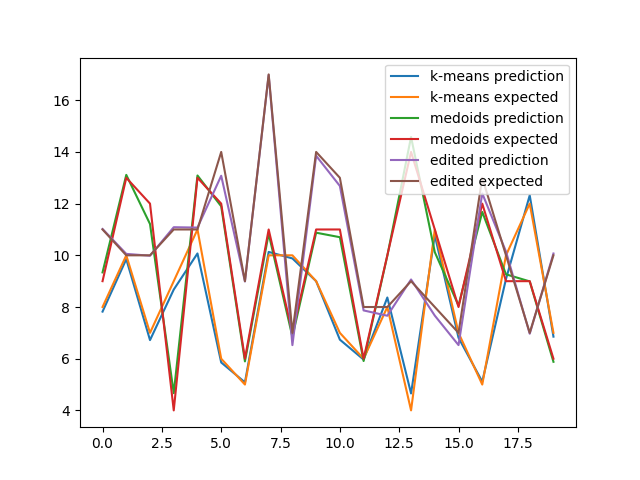
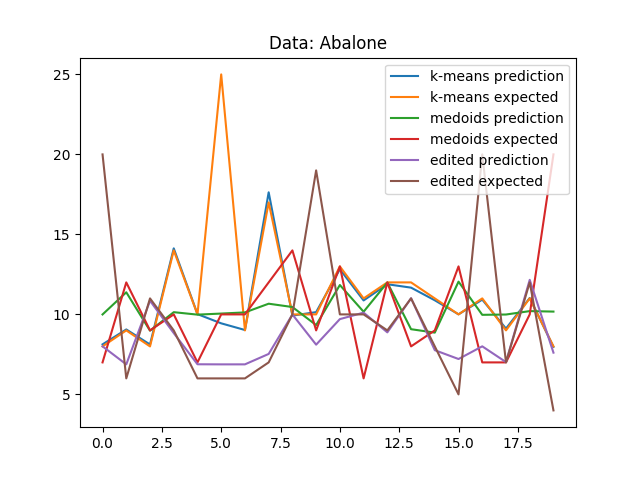
fixed data error

diff --git a/Main.py b/Main.py
@@ -14,7 +14,7 @@ def load_data():
     """
     data_list = [Data('abalone', pd.read_csv(r'data/abalone.data', header=None), 8),
                  Data('car', pd.read_csv(r'data/car.data', header=None), 5),
-                 Data('segmentation', pd.read_csv(r'data/segmentation.data', header=None), 0),
+                 Data('segmentation', pd.read_csv(r'data/segmentation.data', header=None, skiprows=4), 0),
                  Data('machine', pd.read_csv(r'data/machine.data', header=None), 0),
                  Data('forest_fires', pd.read_csv(r'data/forestfires.data', header=None), 12),
                  Data('wine', pd.read_csv(r'data/wine.data', header=None), 0),
@@ -24,9 +24,10 @@ def load_data():
 
 
 # run RBF regression on 4 experiments (diff clusters)
-def RBFREG_exp(data_config):
+def RBFREG_exp(data_config, data):
     # setup data var
-    data = Data('abalone', pd.read_csv(r'data/abalone.data', header=None), 8)  # load data
+    # data = Data('segmentation', pd.read_csv(r'data/segmentation.data', header=None), 0)
+    # load data
     df = data.df  # get the dataframe from df
 
     print("Checking DF set")
@@ -98,7 +99,7 @@ def RBFREG_exp(data_config):
     print("expected")
     print(expc_list)
     plt.plot(predicts, label='RBF2' + data_config + ' prediction')
-    plt.plot(expc_list, label='RBF2' +data_config + ' expected')
+    plt.plot(expc_list, label='RBF2' + data_config + ' expected')
     # print("MSE RBF 2")
     # mse2 = rbf2.mean_squared_error(predicts2, expc_list)
     # print(mse2)
@@ -113,7 +114,7 @@ def RBFREG_exp(data_config):
     print("expected")
     print(expc_list)
     plt.plot(predicts, label='RBF3' + data_config + ' prediction')
-    plt.plot(expc_list, label='RBF3' +data_config + ' expected')
+    plt.plot(expc_list, label='RBF3' + data_config + ' expected')
     # print("MSE RBF 3")
     # mse3 = rbf.mean_squared_error(predicts3, expc_list)
     # print(mse3)
@@ -128,7 +129,7 @@ def RBFREG_exp(data_config):
     print("expected")
     print(expc_list)
     plt.plot(predicts, label='RBF4' + data_config + ' prediction')
-    plt.plot(expc_list, label='RBF4' +data_config + ' expected')
+    plt.plot(expc_list, label='RBF4' + data_config + ' expected')
     # print("MSE RBF 4")
     # mse4 = rbf.mean_squared_error(predicts4, expc_list)
     # print(mse4)
@@ -137,8 +138,9 @@ def RBFREG_exp(data_config):
 
 
 # run RBF regression on small dataset for video
-def RBFREG_vid(data_config):
-    data = Data('abalone', pd.read_csv(r'data/abalone.data', header=None), 8)  # load data
+
+def RBFREG_vid(data_config, data, best_performing):
+    # data = Data('abalone', pd.read_csv(r'data/abalone.data', header=None), 8)  # load data
     df = data.df.sample(100)  # get the dataframe from df, take small subsection
 
     print("\nChecking DF set")
@@ -187,14 +189,16 @@ def RBFREG_vid(data_config):
 
     expc_list = actual.values.tolist()
     print("predicts RBF")
-    plt.plot(predicts, label=data_config + ' prediction')
-    plt.plot(expc_list, label=data_config + ' expected')
+    plt.plot(predicts, label=data.name + data_config + ' prediction')
+    plt.plot(expc_list, label= data.name + data_config + ' expected')
 
     print(predicts)
     print("expected")
     print(expc_list)
     lf = LF()
-    lf.mean_squared_error(predicts, expc_list)
+    mse = lf.mean_squared_error(predicts, expc_list)
+    if best_performing is None:
+        best_performing = [data_config, mse, data.name]
     lf.zero_one_loss(predicts, expc_list)
 
     # print("MSE RBF")
@@ -210,15 +214,19 @@ class Main:
 
 
 if __name__ == '__main__':
-
+    data = load_data()
     rbf_list = ['k-means', 'medoids', 'edited']
-    for rbf_version in rbf_list:  # Run RBF
-        # run video rbg freg
-        RBFREG_vid(rbf_version)
+    best_performing = None
+    for dataset in data:
+        print(dataset.name)
+        for rbf_version in rbf_list:  # Run RBF
+            # run video rbg freg
+            RBFREG_vid(rbf_version, dataset, best_performing)
 
-        # run experiment
-        # RBFREG_exp(rbf_version)
+            # run experiment
+            # RBFREG_exp(rbf_version)
     plt.legend()
     plt.title('Data: Abalone')
-    plt.savefig('results_plot') # Code for saving a plot to image sourced from: https://pythonspot.com/matplotlib-save-figure-to-image-file/
+    plt.savefig(
+        'results_plot')  # Code for saving a plot to image sourced from: https://pythonspot.com/matplotlib-save-figure-to-image-file/
     plt.show()
